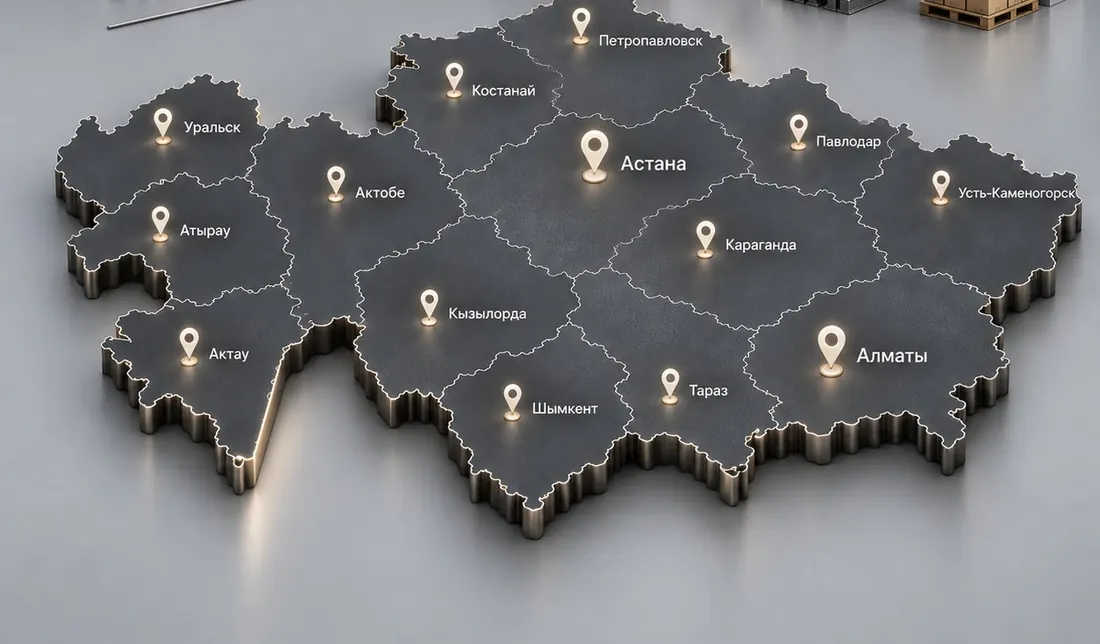
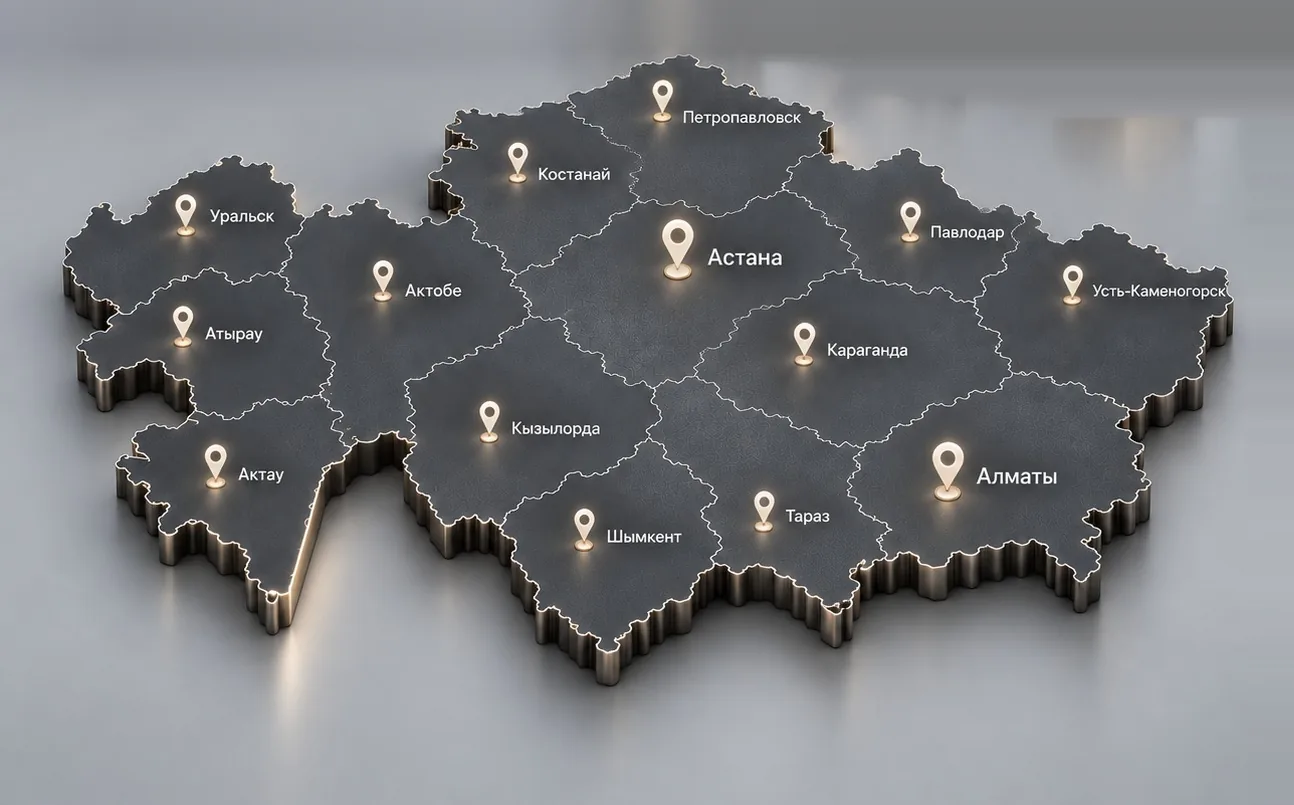
Карта в блоке О компании целиком, карточка по пропорции кадра, подпись под картой на мобильном

diff --git a/styles.css b/styles.css
@@ -263,19 +263,20 @@ html.no-plate .rv{opacity:1;transition:none}
 
 /* доверие: карта и цифры в сетке сечения */
 .bento{display:grid;grid-template-columns:61.8fr 38.2fr;gap:16px;align-items:stretch}
-.bmap{position:relative;overflow:hidden;background:var(--ink3);min-height:320px}
-.bmap img{position:absolute;inset:0;width:100%;height:100%;object-fit:cover;object-position:50% 40%}
+.bmap{position:relative;overflow:hidden;background:var(--ink3);aspect-ratio:1294/805;align-self:start}
+.bmap img{position:absolute;inset:0;width:100%;height:100%;object-fit:cover;object-position:50% 50%}
 .bmap::after{content:"";position:absolute;inset:0;background:linear-gradient(180deg,transparent 45%,rgba(15,17,20,.85))}
 .bmap figcaption{position:absolute;left:24px;right:24px;bottom:22px;z-index:2;font:500 14px/1.45 var(--ft);color:rgba(255,255,255,.86)}
-.nums{display:grid;grid-template-columns:repeat(2,minmax(0,1fr));gap:16px}
-.nums li{padding:22px 20px 20px;background:var(--ink2);border-top:1px solid var(--gold);display:grid;gap:8px;align-content:start;min-width:0;container-type:inline-size}
+.nums{display:grid;grid-template-columns:repeat(2,minmax(0,1fr));grid-auto-rows:1fr;gap:16px}
+.nums li{padding:22px 20px 20px;background:var(--ink2);border-top:1px solid var(--gold);display:grid;gap:8px;align-content:space-between;min-width:0;container-type:inline-size}
 .nums b{font:300 clamp(40px,4vw,60px)/1 var(--fd);font-size:clamp(28px,26cqi,60px);letter-spacing:-.01em;font-variant-numeric:lining-nums;font-feature-settings:"lnum";color:#fff;white-space:nowrap}
 .nums span{font-size:13.5px;line-height:1.4;color:rgba(255,255,255,.62)}
 .accept{margin-top:16px;display:grid;grid-template-columns:repeat(3,minmax(0,1fr));gap:16px}
 .accept li{padding:22px 22px;background:var(--ink2);display:grid;gap:8px;align-content:start}
 .accept b{font:600 11px/1.2 var(--ft);letter-spacing:.2em;text-transform:uppercase;color:var(--gold)}
 .accept span{font-size:14px;line-height:1.5;color:rgba(255,255,255,.72)}
-@media(max-width:900px){.bento{grid-template-columns:1fr;gap:12px}.bmap{aspect-ratio:1.618;min-height:0}.nums{gap:12px}.nums li{padding:16px 16px 14px}.accept{grid-template-columns:1fr;gap:10px;margin-top:12px}.accept li{padding:16px 18px}}
+@media(max-width:900px){.bento{grid-template-columns:1fr;gap:12px}.bmap{aspect-ratio:1294/805}.nums{gap:12px}.nums li{padding:16px 16px 14px}.accept{grid-template-columns:1fr;gap:10px;margin-top:12px}.accept li{padding:16px 18px}}
+@media(max-width:760px){.bmap{aspect-ratio:auto}.bmap img{position:static;display:block;height:auto;aspect-ratio:1294/805}.bmap::after{display:none}.bmap figcaption{position:static;padding:14px 16px 16px;font-size:13.5px}}
 
 /* ленты: портфель и письма - с кнопками листания */
 .arrows{display:flex;gap:10px;flex:0 0 auto}

diff --git a/index.html b/index.html
@@ -29,7 +29,7 @@
 <link rel="preload" as="image" href="assets/hero.webp" media="(min-width:761px)">
 <link rel="preload" as="image" href="assets/hero-m.webp" media="(max-width:760px)">
 <link href="https://fonts.googleapis.com/css2?family=Raleway:wght@300;400;600&family=Golos+Text:wght@400;500;600&display=swap" rel="stylesheet">
-<link rel="stylesheet" href="styles.css?v=20260916-3">
+<link rel="stylesheet" href="styles.css?v=20260916-4">
 <script type="application/ld+json">
 {
   "@context": "https://schema.org",
@@ -355,7 +355,7 @@
     </div>
     <div class="bento rv">
       <figure class="bmap">
-        <img src="assets/map.webp" width="1100" height="644" alt="Карта Казахстана с отметками городов, где оценивались объекты" loading="lazy" decoding="async">
+        <img src="assets/map.webp?v=20260916-4" width="1294" height="805" alt="Карта Казахстана с отметками городов, где оценивались объекты" loading="lazy" decoding="async">
         <figcaption>Астана · Алматы · Караганда - филиалы. Осмотр объектов - в любом регионе страны</figcaption>
       </figure>
       <ul class="nums">
@@ -520,6 +520,6 @@
   <div class="lb-in"><img id="lb-img" src="" alt="Скан письма"></div>
 </div>
 
-<script src="script.js?v=20260916-3" defer></script>
+<script src="script.js?v=20260916-4" defer></script>
 </body>
 </html>
